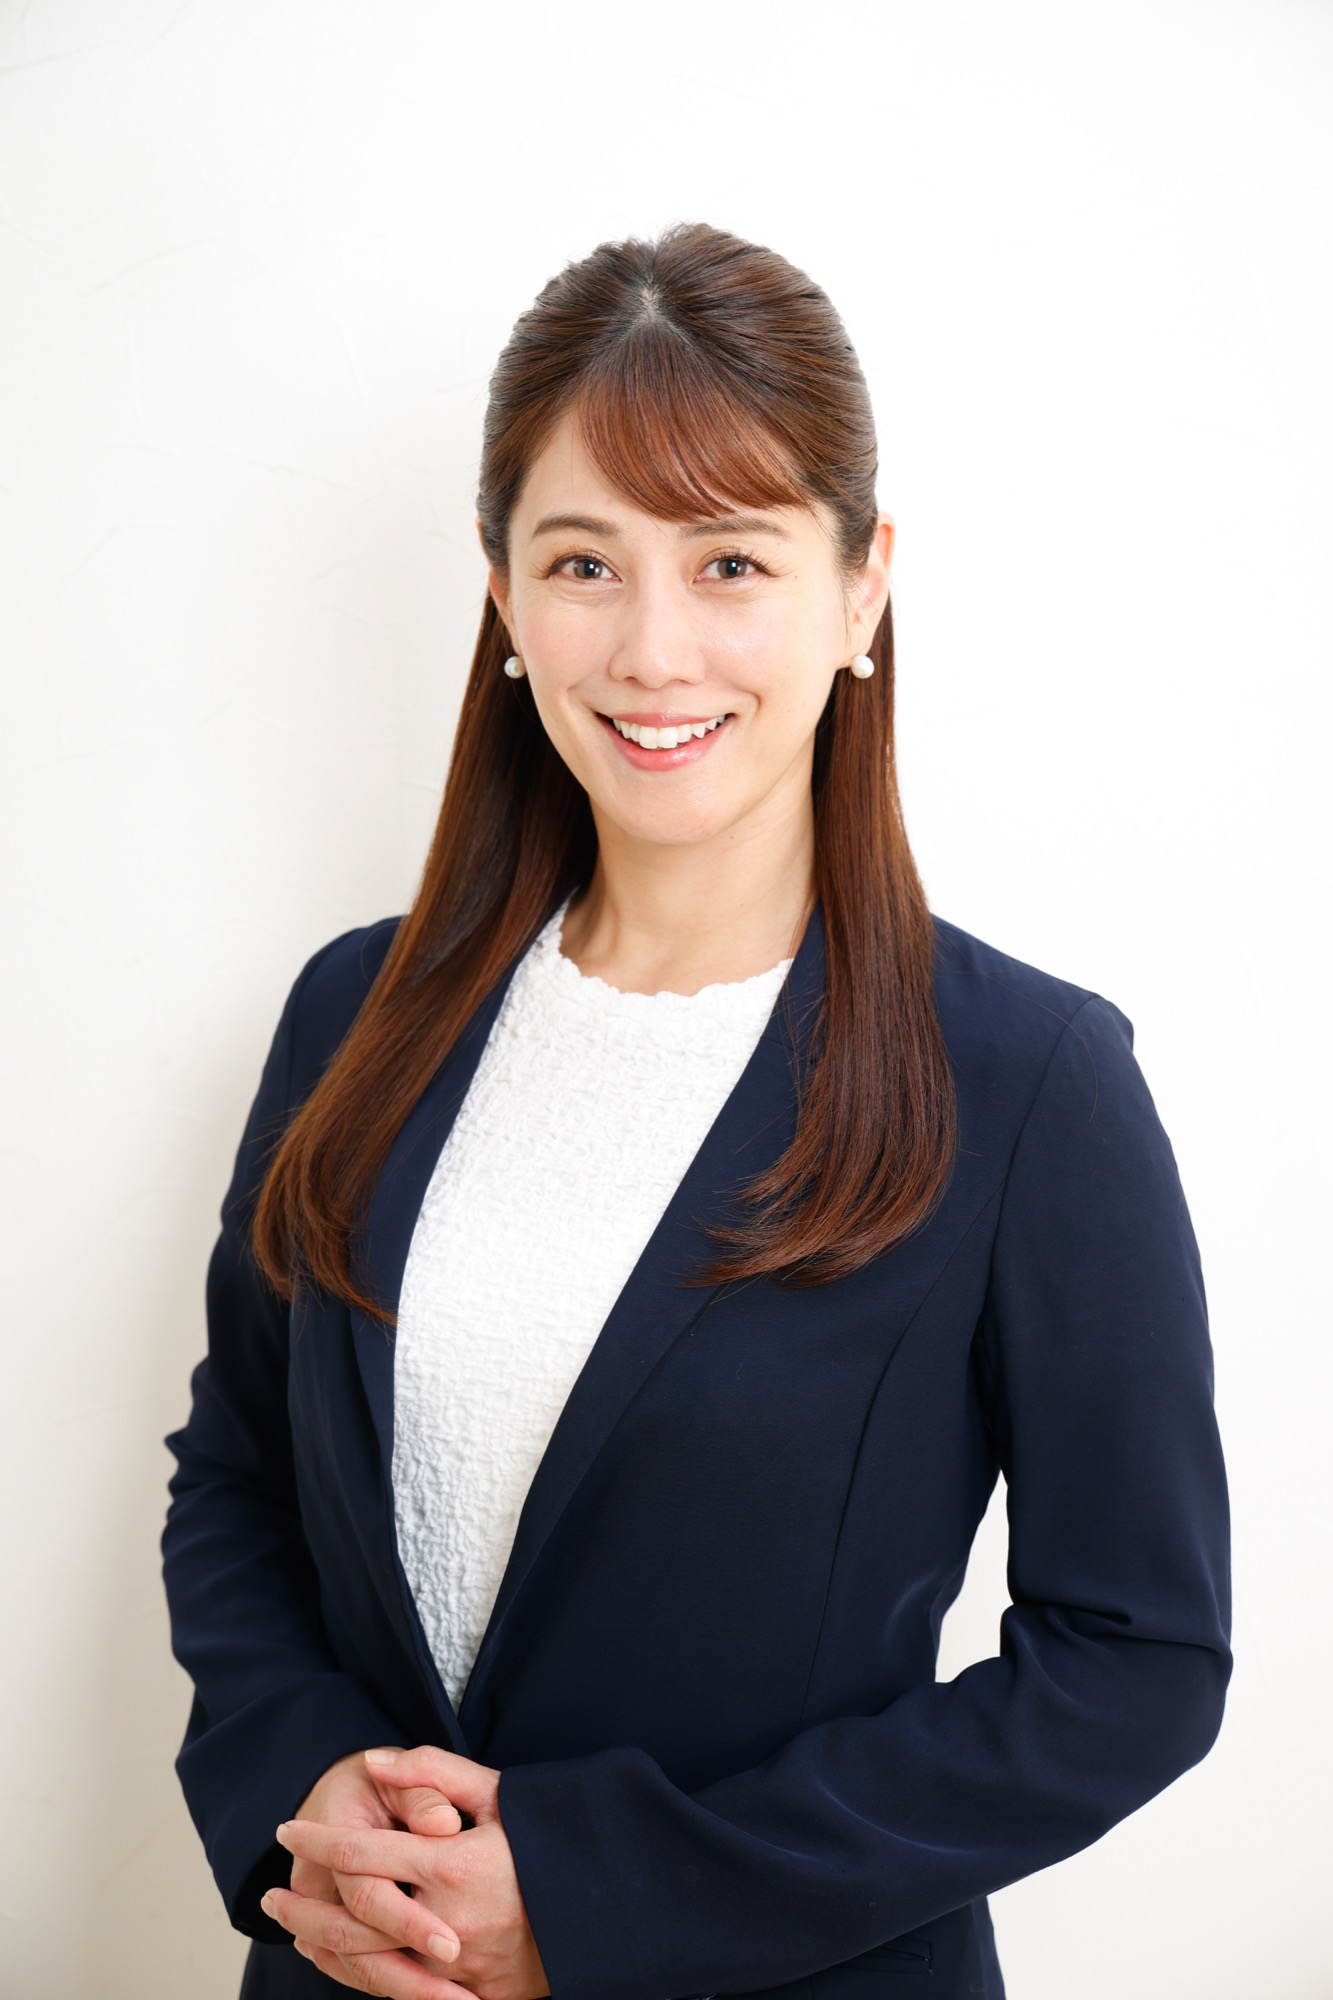
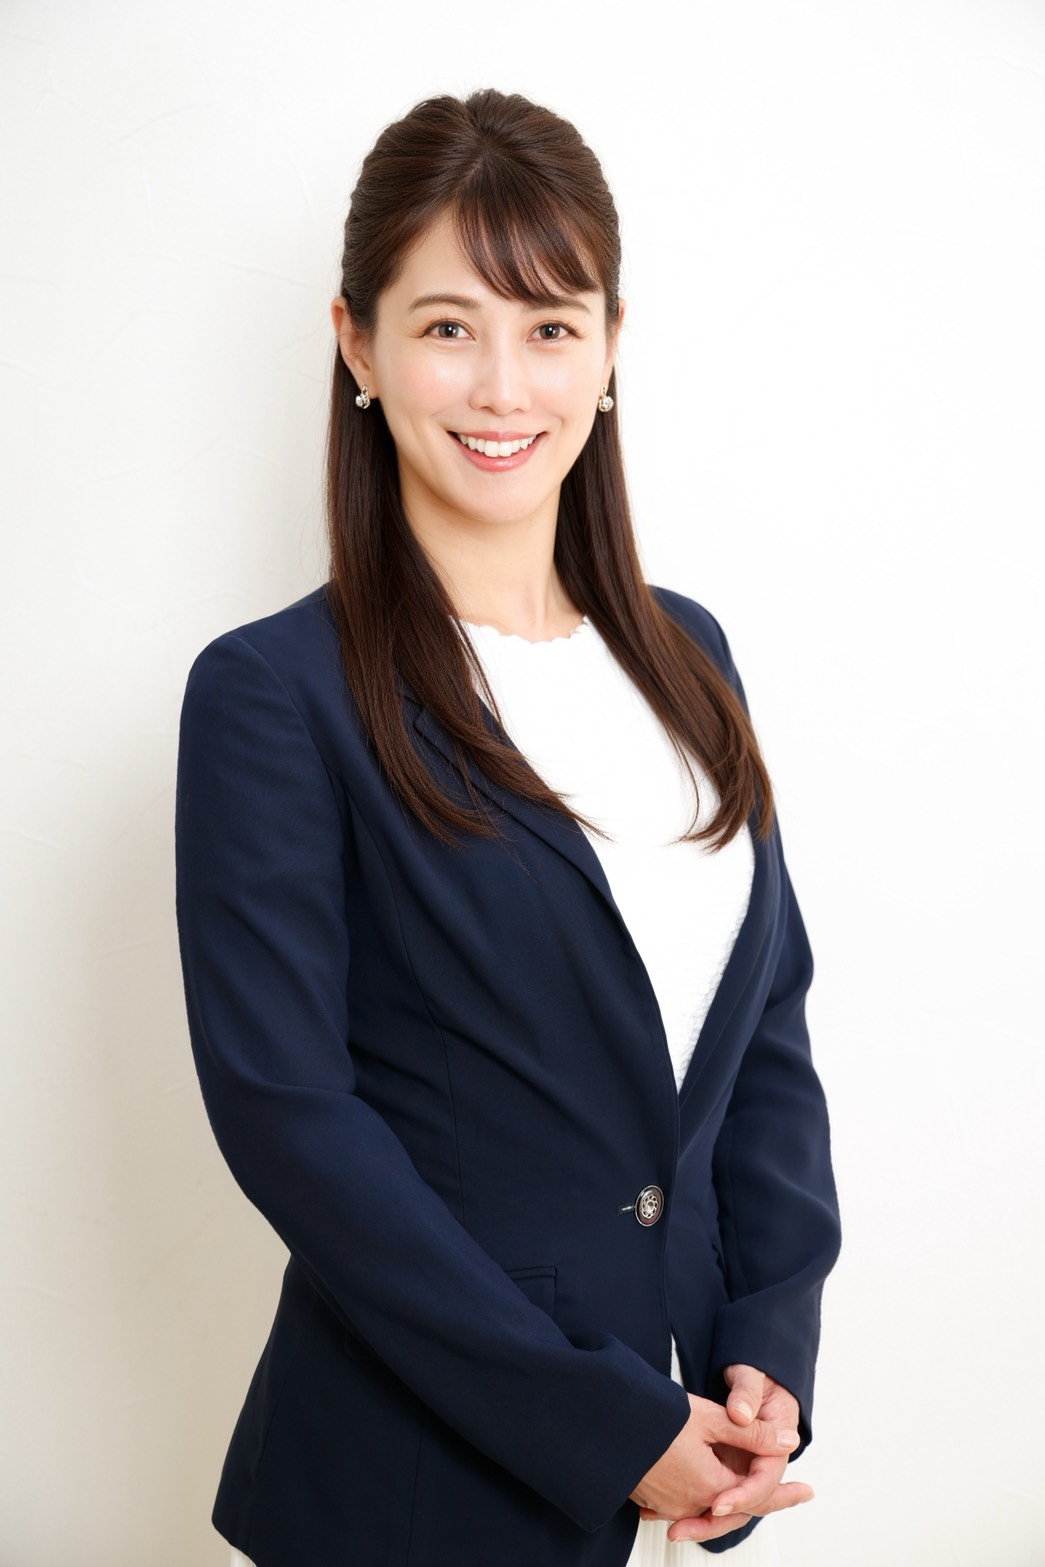
Update representative portrait

diff --git a/greeting.html b/greeting.html
@@ -51,7 +51,7 @@
 <section class="profile-hero">
   <div class="wrap profile-hero-grid">
     <div class="profile-hero-photo reveal">
-      <img src="images/profile-kitade.jpg?v=20260911-1" alt="北出恭子">
+      <img src="images/profile-kitade.jpg?v=20260919-2" alt="北出恭子">
     </div>
     <div class="profile-hero-text reveal">
       <p class="section-eyebrow">Message</p>
